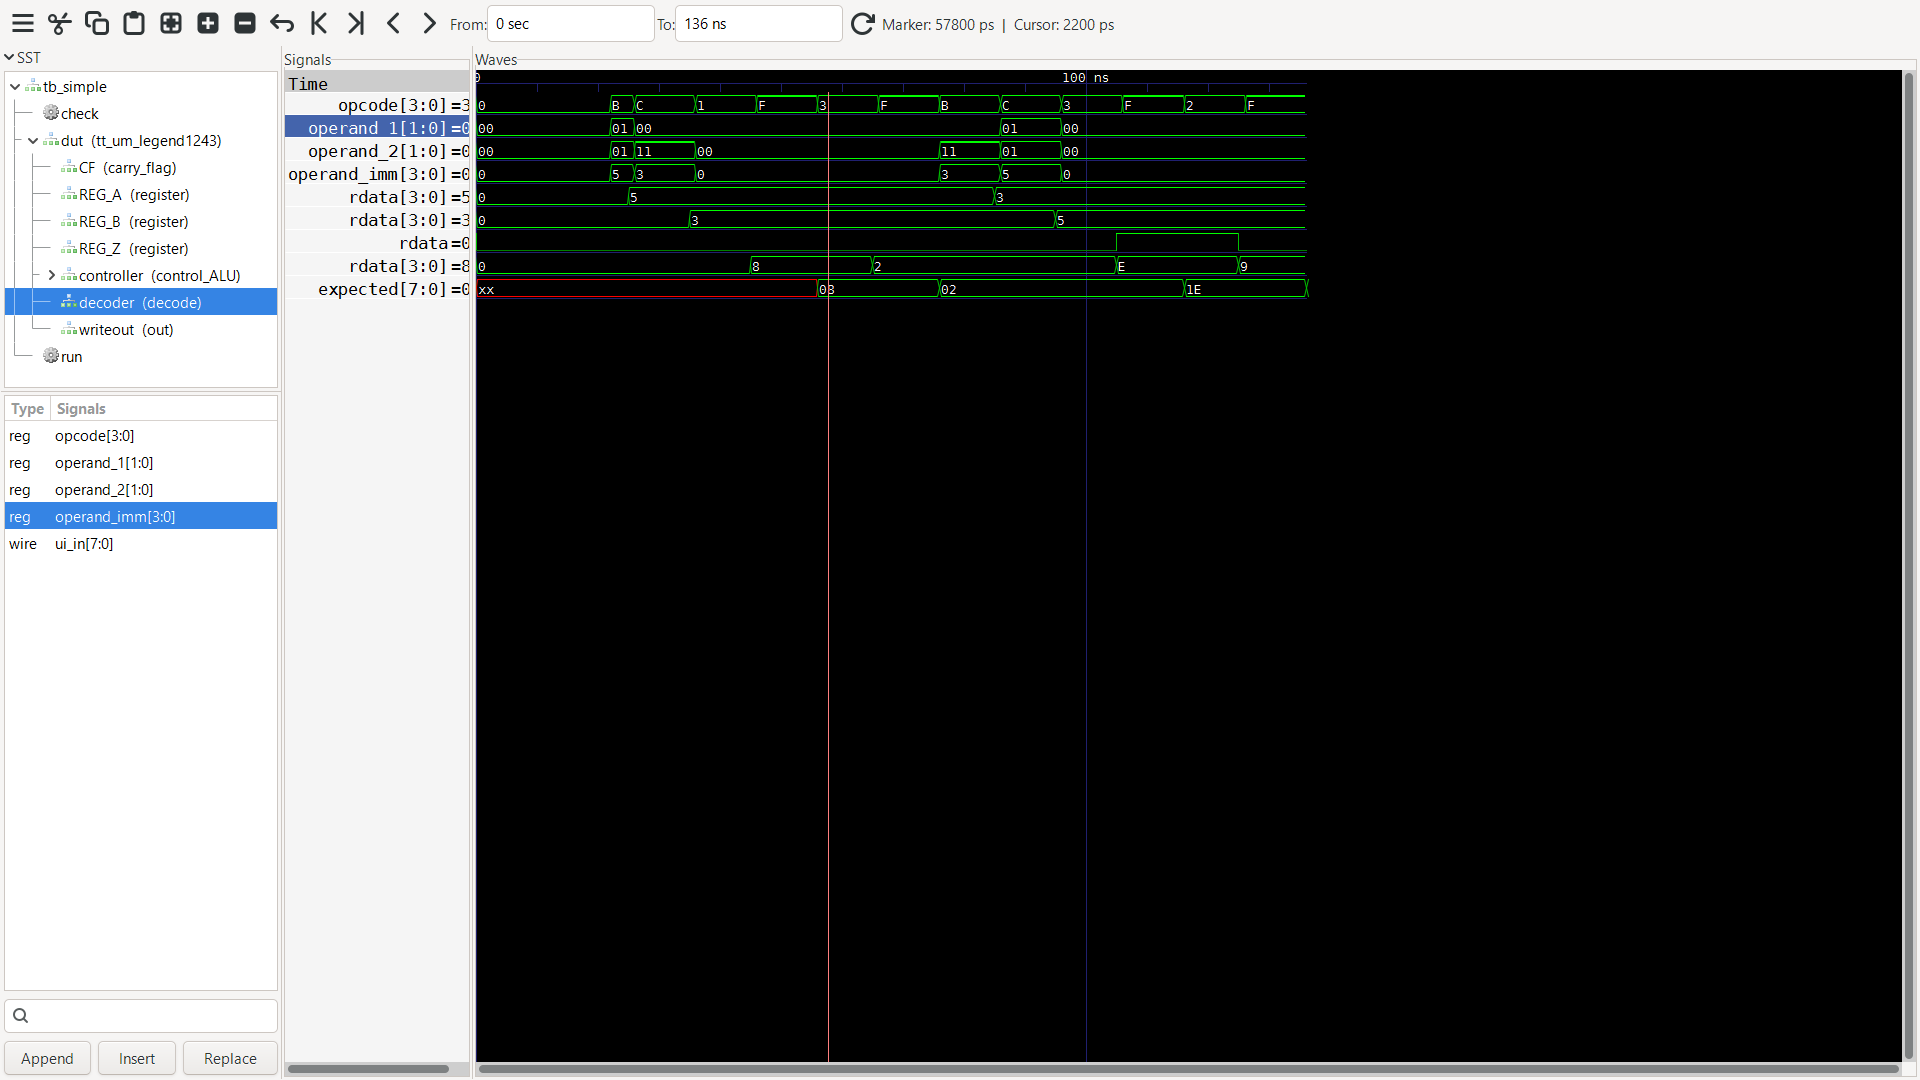
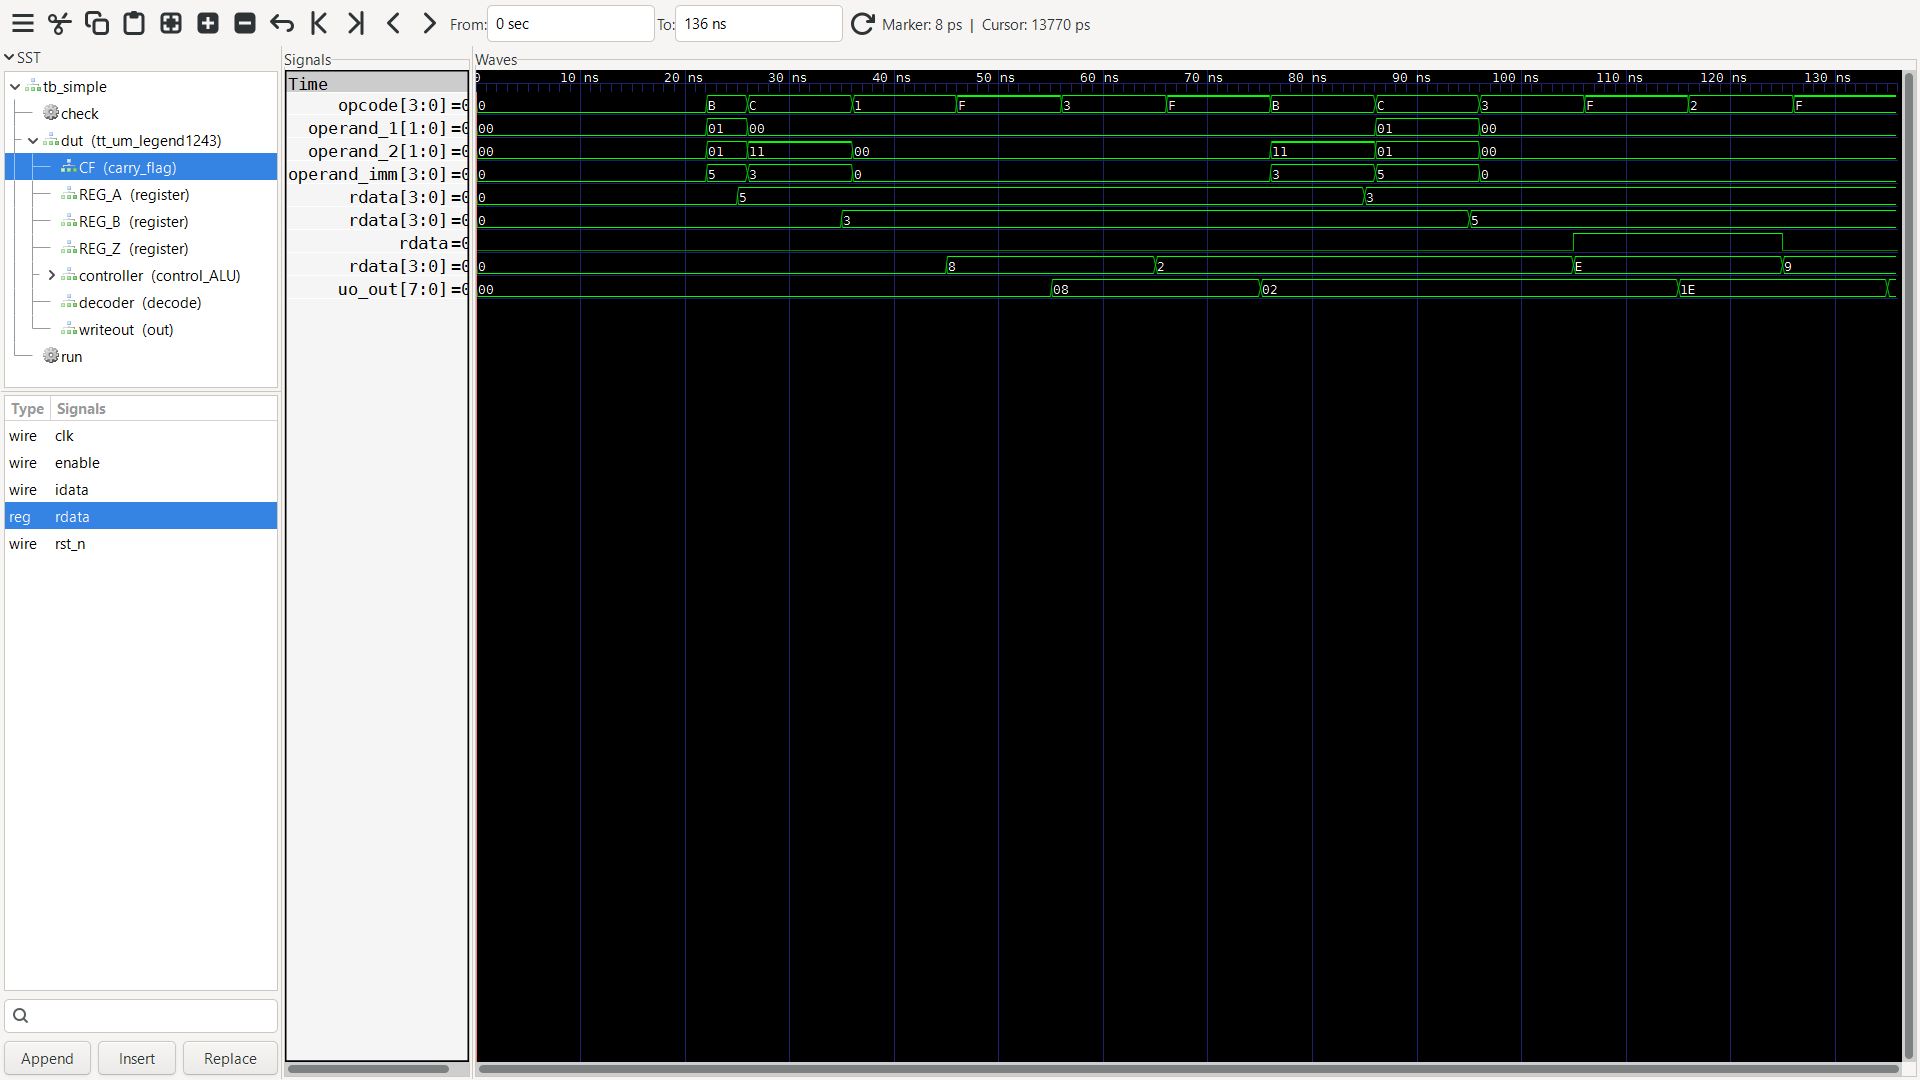
modified info and wrote write up

diff --git a/docs/writeup.md b/docs/writeup.md
@@ -1,0 +1,118 @@
+# C404 — 4-bit CPU inspired by Intel 4004
+
+# introduction
+
+## Why did I made this CPU?
+A few years ago, I was introduced to the concept of transistors in my physics class, learning about NPN and PNP transistors. Around the same time, I came across two videos in my YouTube feed that completely changed how I saw computers: Building an 8-bit Breadboard Computer! by Ben Eater and Exploring How Computers Work by Sebastian Lague. These videos planted an idea in both me and my friend: what if we could build a CPU from scratch, starting all the way from transistors and eventually making our own silicon?
+
+Since then, building a CPU has been a long-standing goal of mine. I was also fascinated by the Intel 4004, the world's first commercially available microprocessor. It was a 4-bit processor running at around 740 kHz, yet it was capable of performing the fundamental operations that made modern computing possible. That made me want to build something of my own, even if it was much simpler.
+
+I had been sketching different CPU architectures for a while, but I only started implementing C404 in Verilog after discovering the Hack Club ASIC program. What started as a long-time dream suddenly became a project I could actually manufacture on silicon.
+
+## inspirations from Intel 4004
+The name C404 comes from the initial of my name and the Intel 4004. The Intel 4004 was also a major inspiration for the overall direction of the project. I initially considered building something more ambitious, with separate ROM and RAM, an 8-bit memory address space, and several registers. However, combining an 8-bit memory addressing scheme with a 4-bit CPU introduced many awkward design complications. I also realised that fitting both an SPI interface and the CPU into a single Tiny Tapeout tile would be impractical. Eventually, I decided to simplify the architecture and focus on the CPU itself.
+
+I also took some inspiration from the x86 architecture, particularly its register naming conventions. This influenced the design of C404's registers, which eventually became A, B, and Z. Z has a dedicated role as the destination register for ALU operations. This makes it possible to keep the source operands separate from the result, giving the CPU a more structured way of handling instructions.
+
+## Project Constraints
+This project was developed in under a week. I had only recently discovered the Hack Club ASIC program when I saw it featured on the main page. Last Sunday, I completed the final specification draft for C404. Note that this was the specification, not the actual RTL implementation.
+
+Since I had no idea how many gates the design would eventually require, I decided to further simplify the architecture during RTL implementation whenever necessary. The final design ended up using 236 cells, as reported by GitHub's LibreLane flow.
+
+# Architecture and design
+specs can be found in [documentation/info.md](info.md)
+
+## Years of daydreaming
+Before starting this project, I had already taught myself the basics of CPU architecture, including registers, pipelining, and out-of-order execution. I had been sketching designs for C404 and other CPUs for years.
+
+My earlier designs were considerably more ambitious, and, looking back, some of their ideas were not particularly practical. As I learned more about computer architecture, I gradually realised that less is more. What's the point of designing something ambitious if it is ultimately impossible to implement within the available constraints?
+
+## final draft
+Last Sunday, I dug up my old sketches and started simplifying the architecture. One of the biggest problems was the combination of a 4-bit CPU with an 8-bit memory address space. Handling 8-bit addresses introduced unnecessary complications for such a small processor. On top of that, having a mere 16-word ROM and RAM made the memory architecture difficult to justify. I also could not fit both an SPI interface and the CPU into a single Tiny Tapeout tile.
+
+Eventually, I decided to remove the memory architecture altogether. C404 would focus entirely on arithmetic and logic operations, keeping the design as small and straightforward as possible.
+
+Some might argue that C404 is now merely a mathematical coprocessor, and I do agree to some extent. However, its original design included branching and memory operations. The project evolved from that original CPU concept, so I still consider it a CPU, even if its final implementation is much more limited.
+
+The final specification draft still had a few things that would change during implementation. It included a SYNC clock input because I initially expected instructions to take multiple clock cycles to execute. It also only defined 14 instructions, leaving two instruction slots unused.
+
+## modifications during RTL
+During RTL implementation, I realised that the instructions did not actually require multiple clock cycles to execute. As a result, I removed the SYNC clock input and simplified the execution process.
+
+I also filled the two remaining instruction slots by adding SUBC and CMP, bringing the instruction set to its final total of 16 instructions.
+
+# Journey of the RTL Implementation
+
+## installation and configuration
+For almost every project, the part I dread the most is inevitably installing new software.
+
+I still have some PTSD from trying to set up C# for Sebastian Lague's TinyChessChallenge. That experience took me almost a month, mostly because I had no idea how to edit environment variables and configure the PATH properly.
+
+Fortunately, setting up Icarus Verilog, GTKWave, and OSS CAD Suite went much more smoothly this time. I installed Icarus Verilog and GTKWave separately inside my MinGW64 environment because I found OSS CAD Suite somewhat inconvenient to work with, particularly because of its environment setup requirements.
+
+## learning verilog in 1 day
+To finish this project on time, I had to learn Verilog in roughly a day and complete the implementation within a week.
+
+Surprisingly, Verilog was much simpler than I had expected. In fact, I found it easier to work with than some of my ongoing programming projects, such as a chess engine and a custom programming language (both of which are private projects).
+
+The syntax felt rather unusual at first, especially compared with conventional programming languages. However, once I became familiar with it, the language was quite straightforward.
+
+Coming from a software programming background, I found that translating familiar programming concepts into Verilog was not particularly difficult. A Verilog module is somewhat similar to a function or class in a conventional programming language: it has inputs and outputs and can encapsulate a particular piece of functionality. Similarly, wires and registers can initially be understood as variables, although they have important differences in how they behave and how hardware is inferred.
+
+The biggest difference is that Verilog describes hardware rather than simply giving a computer a sequence of instructions to execute. Once I understood that distinction, the rest of the language became much easier to grasp.
+
+## the actual RTL
+
+I splitted the design into multiple modules: TOP/main, decode, registers, carry flag, control_alu, shared_adder and output, so that its far more manageable.
+
+- top module: act as the glue between all these modules.
+- decode module: fetch the input pins and decode them into opcode and operands.
+- registers module: store register values, deal with input and output,and with safety enable wires.
+- carry flag module: I directly copied it from registers module, with some minor changes
+- control alu module: initially I was going to separate into control and alu, but after further thought, combining them would simplify the design. It is the main brain of the entire cpu, doing both executing instructions and storing them into register Z.
+- shared adder module: an attempt to save die area from having separate adders for different arithmetic instructions, but actually unnecessary(I only ultilised 10% routing and 236 cells)
+- output: executes OUT instruction which is outputting data from register Z to outpins with a latch.
+
+# Instruction execution walkthrough
+
+## example code
+### here are some example code that i used for testing
+LDI_A 5 //load 5 into register A
+LDI_B 3 //load 3 into register B
+ADD //Add A and B and store in Z
+OUT //output result from Z
+
+### the waveform diagram
+![waveform](../image_assets/waveform_explanation.png)
+
+|each component|description|  
+|:------------------|-------------|
+|opcode|instruction opcode from input |
+|operand 1| instruction operand 1 from input|
+|operand 2| instruction operand 1 from input|
+|operand imm| instruction operand imm from input|
+|1st rdata| register A|
+|2nd rdata| register B|
+|3rd rdata| carry flag|
+|4th rdata| register Z|
+|ui_out|output pins|
+
+After reset pin is low and during first clock cycle, CPU received the instruction, LDI_A and register A is set to 5.  
+On the next turn, LDI_B is received and register B is set to 3.
+Then add instruction is executed, register Z is set to A+B(5+3) = 8.
+Carry flag is not triggered as there is no integer overflow.  
+Output is sent to out_pins.  
+
+# Conclusion
+
+Looking back, C404 turns out to be a much more achievable project than I initially expected. What started as an idea I had been day dreaming about for years eventually became a working 4-bit CPU design, implemented in Verilog and taken through the ASIC design flow in less than a week.
+
+Throughout this project, I learned a lot about RTL design, hardware architecture, simulation, and synthesis. One of my biggest takeaways is that a simpler design is not necessarily a worse design. My original architecture was much more ambitious, but simplifying it allowed me to actually finish the project within the available time and hardware constraints. I also learned that hardware optimisation needs to be considered carefully. For example, I spent time implementing a shared adder to reduce area, only to realise that the available tile area was not nearly as restrictive as I had expected.
+
+Of course, C404 is far from a complete general-purpose CPU. It lacks memory, branching, and many other features found in conventional processors. However, that is something I would like to explore in my next project.
+
+## What's Next?
+
+My next goal is to design an 8-bit CPU inspired by both Intel 8080 and AVR. Unlike C404, I want this processor to have a proper memory architecture, branching instructions, and a more complete instruction set. I also want to take what I learned from C404 and apply it to a more ambitious design, while keeping the architecture practical enough to implement.
+
+For now, C404 is a small but meaningful first step towards a much bigger goal: designing my own CPU and eventually building more complex processors on silicon.

diff --git a/docs/info.md b/docs/info.md
@@ -8,7 +8,8 @@ You can also include images in this folder and reference them in the markdown. E
 -->
 
 ## How it works
-
+##### I accidentally submitted this file instead of writeup.
+- [Read the writeup for project](writeup.md)
 C404 is a 4-bit CPU-inspired execution engine implemented in Verilog, drawing inspiration from early microprocessors, particularly the Intel 4004.
 This project explores fundamental processor concepts, including instruction decoding, register operations, arithmetic and logic operations, carry handling, and output control.
 C404 uses an 8-bit instruction input interface and maintains three 4-bit general-purpose registers (A, B and Z), together with a carry flag (CF).
